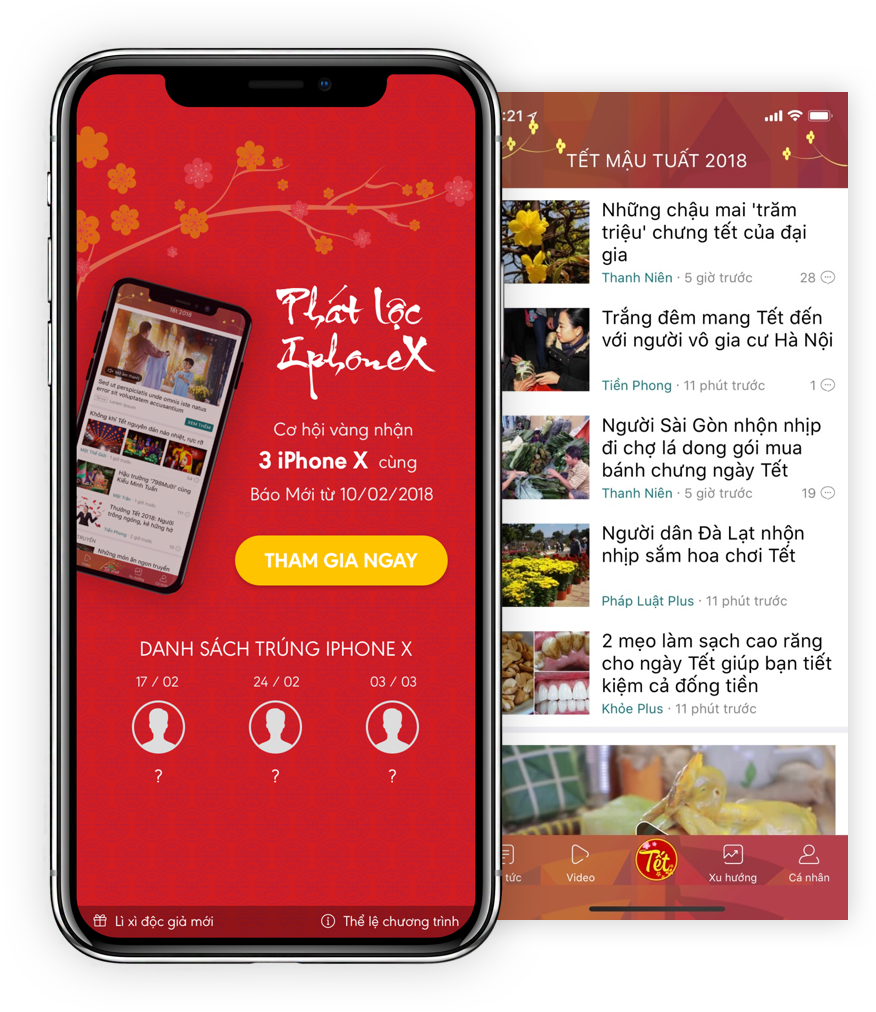
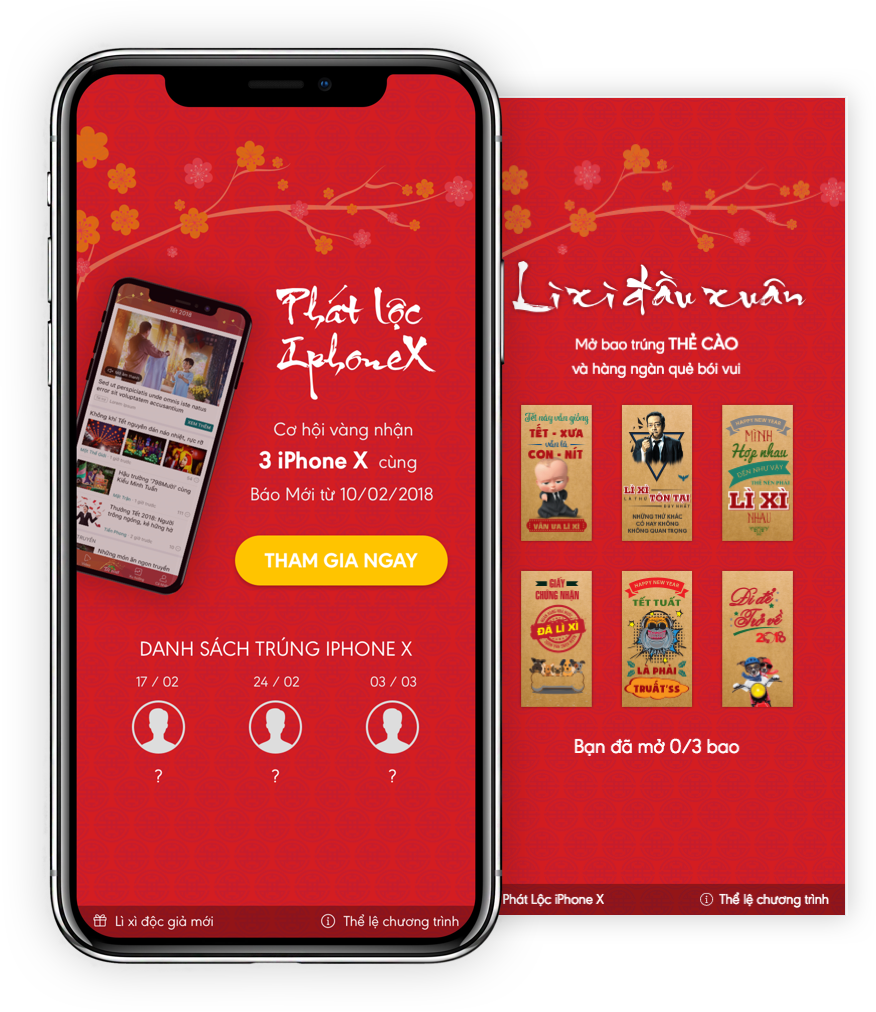
Update page lixi

diff --git a/build/Demo-html/index_lixi.html b/build/Demo-html/index_lixi.html
@@ -1,0 +1,122 @@
+<!DOCTYPE html>
+<!--[if lt IE 7]>      <html class="no-js lt-ie9 lt-ie8 lt-ie7"> <![endif]-->
+<!--[if IE 7]>         <html class="no-js lt-ie9 lt-ie8"> <![endif]-->
+<!--[if IE 8]>         <html class="no-js lt-ie9"> <![endif]-->
+<!--[if gt IE 8]><!-->
+<html class="no-js">
+<!--<![endif]-->
+
+<head>
+    <title>BM - Landing 2018</title>
+    <!-- Meta -->
+    <meta charset="utf-8">
+    <meta http-equiv="X-UA-Compatible" content="IE=edge">
+    <meta name="description" content="">
+    <meta name="viewport" content="width=device-width">
+    <meta name="format-detection" content="telephone=no">
+    <!-- Favicon -->
+    <link rel="shortcut icon" href="../App_Themes/img/favicon.png">
+    <!-- CSS Customization -->
+    <link rel="stylesheet" href="../App_Themes/css/bm_landing.min.css">
+    <!-- JS modernizr + Jquery + Components JS-->
+    <script src="../Jscripts/bm_landing.min.js"></script>
+</head>
+
+<body>
+    <!-- site header -->
+    <header id="site-header" class="site-header">
+        <div class="site-wrap">
+            <div class="site-header__content">
+                <div class="row">
+                    <div class="col-xs-12 col-sm-8">
+                        <div class="site-header__slogan">
+                            <h2>Đọc báo đầu xuân - Nhận lộc may mắn</h2>
+                            <p class="text__body">Tải ứng dụng <b>Báo Mới</b> để có ngay cơ hội nhận 1 trong 3 chiếc <b>iPhone X</b> khi đăng ký tham gia rút thăm, cùng hàng ngàn thẻ điện thoại trong các bao lì xì may mắn</p>
+                        </div>
+                    </div>
+                    <div class="col-xs-offset-2 col-xs-8 col-sm-offset-0 col-sm-4">
+                        <div class="site-header__mockup"><img src="images/Mockup_featured_1.png" class="img-responsive" alt=""></div>
+                    </div>
+                </div>
+            </div>
+        </div>
+        <div class="mask"></div>
+    </header>
+    <!-- site content -->
+    <main id="site-content" class="site-content">
+        <div class="site-wrap">
+            <div class="zone__header foo">
+                <h2 class="zone__title">Cách thức tham gia</h2>
+                <p class="text__body">Tải / cập nhật ứng dụng Báo Mới lên <b>phiên bản mới nhất</b> và làm theo hướng dẫn</p>
+            </div>
+            <div class="step foo">
+                <div class="row">
+                    <div class="col-xs-12 col-sm-6">
+                        <div class="step__content">
+                            <h3 class="zone__sub-title">Bước 1: Tải ứng dụng</h3>
+                            <p class="text__body">Vào kho ứng dụng, tìm và tải ứng dụng Báo Mới</p>
+                            <div class="download">
+                                <div class="download__qr"><img src="images/Download_QR.png" alt="" class="img-responsive"></div>
+                                <div class="download__app">
+                                    <div class="download__android"><a href="#"><img src="images/Download_android.png" alt="" class="img-responsive"></a></div>
+                                    <div class="download__ios"><a href="#"><img src="images/Download_ios.png" alt="" class="img-responsive"></a></div>
+                                </div>
+                            </div>
+                        </div>
+                    </div>
+                    <div class="col-xs-12 col-sm-offset-1 col-sm-5">
+                        <div class="step__image"><img src="images/Mockup_top.png" alt="" class="img-responsive"></div>
+                    </div>
+                </div>
+            </div>
+            <div class="step foo">
+                <div class="row">
+                    <div class="col-xs-12 col-sm-push-6 col-sm-6">
+                        <div class="step__content">
+                            <h3 class="zone__sub-title">Bước 2: Đăng nhập</h3>
+                            <p class="text__body">Mở ứng dụng, vào mục cá nhân và đăng nhập tài khoản</p>
+                        </div>
+                    </div>
+                    <div class="col-xs-12 col-sm-pull-6 col-sm-5">
+                        <div class="step__image"><img src="images/Mockup_middle.png" alt="" class="img-responsive"></div>
+                    </div>
+                </div>
+            </div>
+            <div class="step foo">
+                <div class="row">
+                    <div class="col-xs-12 col-sm-6">
+                        <div class="step__content">
+                            <h3 class="zone__sub-title">Bước 3: Đăng ký tham gia</h3>
+                            <p class="text__body">Truy cập vào trang sự kiện và bắt đầu đăng ký</p>
+                        </div>
+                    </div>
+                    <div class="col-xs-12 col-sm-offset-1 col-sm-5">
+                        <div class="step__image"><img src="images/Mockup_bottom.png" alt="" class="img-responsive"></div>
+                    </div>
+                </div>
+            </div>
+            <div class="cta foo">
+                <a href="#" class="btn btn-primary">THAM GIA NGAY</a>
+            </div>
+        </div>
+    </main>
+    <!-- site footer -->
+    <footer id="site-footer" class="site-footer">
+        <div class="site-wrap">
+            <div class="logo"><a href="#"><img src="../App_Themes/img/logo.png" class="img-responsive" alt=""></a></div>
+            <p class="text__body">Giấy phép số 1818/GP-TTĐT do Sở Thông tin và Truyền thông Hà Nội cấp ngày 05/05/2017 </p>
+            <p class="text__body">Đơn vị chủ quản: Công ty Cổ phần Công nghệ EPI.</p>
+            <p class="text__body">Địa chỉ: Tầng 7, Tòa nhà Báo Sinh Viên VN, D29 Phạm Văn Bạch, Yên Hòa, Cầu Giấy, Hà Nội</p>
+            <p class="text__body">Email: <a href="mailto:apps.baomoi@epi.com.vn">apps.baomoi@epi.com.vn</a></p>
+        </div>
+        <div class="mask"></div>
+    </footer>
+    <!-- JS Global Customise -->
+    <script src="../Jscripts/custom.js "></script>
+    <!-- Js Dev plugin -->
+    <!--[if lt IE 9]>
+        <script src="../Jscripts/vendor/respond.js "></script>
+    <![endif]-->
+</body>
+
+</html>

diff --git a/source/demo-html/index_lixi.html b/source/demo-html/index_lixi.html
@@ -1,0 +1,122 @@
+<!DOCTYPE html>
+<!--[if lt IE 7]>      <html class="no-js lt-ie9 lt-ie8 lt-ie7"> <![endif]-->
+<!--[if IE 7]>         <html class="no-js lt-ie9 lt-ie8"> <![endif]-->
+<!--[if IE 8]>         <html class="no-js lt-ie9"> <![endif]-->
+<!--[if gt IE 8]><!-->
+<html class="no-js">
+<!--<![endif]-->
+
+<head>
+    <title>BM - Landing 2018</title>
+    <!-- Meta -->
+    <meta charset="utf-8">
+    <meta http-equiv="X-UA-Compatible" content="IE=edge">
+    <meta name="description" content="">
+    <meta name="viewport" content="width=device-width">
+    <meta name="format-detection" content="telephone=no">
+    <!-- Favicon -->
+    <link rel="shortcut icon" href="../App_Themes/img/favicon.png">
+    <!-- CSS Customization -->
+    <link rel="stylesheet" href="../App_Themes/css/bm_landing.min.css">
+    <!-- JS modernizr + Jquery + Components JS-->
+    <script src="../Jscripts/bm_landing.min.js"></script>
+</head>
+
+<body>
+    <!-- site header -->
+    <header id="site-header" class="site-header">
+        <div class="site-wrap">
+            <div class="site-header__content">
+                <div class="row">
+                    <div class="col-xs-12 col-sm-8">
+                        <div class="site-header__slogan">
+                            <h2>Đọc báo đầu xuân - Nhận lộc may mắn</h2>
+                            <p class="text__body">Tải ứng dụng <b>Báo Mới</b> để có ngay cơ hội nhận 1 trong 3 chiếc <b>iPhone X</b> khi đăng ký tham gia rút thăm, cùng hàng ngàn thẻ điện thoại trong các bao lì xì may mắn</p>
+                        </div>
+                    </div>
+                    <div class="col-xs-offset-2 col-xs-8 col-sm-offset-0 col-sm-4">
+                        <div class="site-header__mockup"><img src="images/Mockup_featured_1.png" class="img-responsive" alt=""></div>
+                    </div>
+                </div>
+            </div>
+        </div>
+        <div class="mask"></div>
+    </header>
+    <!-- site content -->
+    <main id="site-content" class="site-content">
+        <div class="site-wrap">
+            <div class="zone__header foo">
+                <h2 class="zone__title">Cách thức tham gia</h2>
+                <p class="text__body">Tải / cập nhật ứng dụng Báo Mới lên <b>phiên bản mới nhất</b> và làm theo hướng dẫn</p>
+            </div>
+            <div class="step foo">
+                <div class="row">
+                    <div class="col-xs-12 col-sm-6">
+                        <div class="step__content">
+                            <h3 class="zone__sub-title">Bước 1: Tải ứng dụng</h3>
+                            <p class="text__body">Vào kho ứng dụng, tìm và tải ứng dụng Báo Mới</p>
+                            <div class="download">
+                                <div class="download__qr"><img src="images/Download_QR.png" alt="" class="img-responsive"></div>
+                                <div class="download__app">
+                                    <div class="download__android"><a href="#"><img src="images/Download_android.png" alt="" class="img-responsive"></a></div>
+                                    <div class="download__ios"><a href="#"><img src="images/Download_ios.png" alt="" class="img-responsive"></a></div>
+                                </div>
+                            </div>
+                        </div>
+                    </div>
+                    <div class="col-xs-12 col-sm-offset-1 col-sm-5">
+                        <div class="step__image"><img src="images/Mockup_top.png" alt="" class="img-responsive"></div>
+                    </div>
+                </div>
+            </div>
+            <div class="step foo">
+                <div class="row">
+                    <div class="col-xs-12 col-sm-push-6 col-sm-6">
+                        <div class="step__content">
+                            <h3 class="zone__sub-title">Bước 2: Đăng nhập</h3>
+                            <p class="text__body">Mở ứng dụng, vào mục cá nhân và đăng nhập tài khoản</p>
+                        </div>
+                    </div>
+                    <div class="col-xs-12 col-sm-pull-6 col-sm-5">
+                        <div class="step__image"><img src="images/Mockup_middle.png" alt="" class="img-responsive"></div>
+                    </div>
+                </div>
+            </div>
+            <div class="step foo">
+                <div class="row">
+                    <div class="col-xs-12 col-sm-6">
+                        <div class="step__content">
+                            <h3 class="zone__sub-title">Bước 3: Đăng ký tham gia</h3>
+                            <p class="text__body">Truy cập vào trang sự kiện và bắt đầu đăng ký</p>
+                        </div>
+                    </div>
+                    <div class="col-xs-12 col-sm-offset-1 col-sm-5">
+                        <div class="step__image"><img src="images/Mockup_bottom.png" alt="" class="img-responsive"></div>
+                    </div>
+                </div>
+            </div>
+            <div class="cta foo">
+                <a href="#" class="btn btn-primary">THAM GIA NGAY</a>
+            </div>
+        </div>
+    </main>
+    <!-- site footer -->
+    <footer id="site-footer" class="site-footer">
+        <div class="site-wrap">
+            <div class="logo"><a href="#"><img src="../App_Themes/img/logo.png" class="img-responsive" alt=""></a></div>
+            <p class="text__body">Giấy phép số 1818/GP-TTĐT do Sở Thông tin và Truyền thông Hà Nội cấp ngày 05/05/2017 </p>
+            <p class="text__body">Đơn vị chủ quản: Công ty Cổ phần Công nghệ EPI.</p>
+            <p class="text__body">Địa chỉ: Tầng 7, Tòa nhà Báo Sinh Viên VN, D29 Phạm Văn Bạch, Yên Hòa, Cầu Giấy, Hà Nội</p>
+            <p class="text__body">Email: <a href="mailto:apps.baomoi@epi.com.vn">apps.baomoi@epi.com.vn</a></p>
+        </div>
+        <div class="mask"></div>
+    </footer>
+    <!-- JS Global Customise -->
+    <script src="../Jscripts/custom.js "></script>
+    <!-- Js Dev plugin -->
+    <!--[if lt IE 9]>
+        <script src="../Jscripts/vendor/respond.js "></script>
+    <![endif]-->
+</body>
+
+</html>
